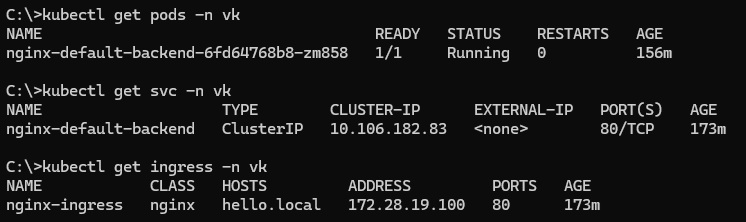
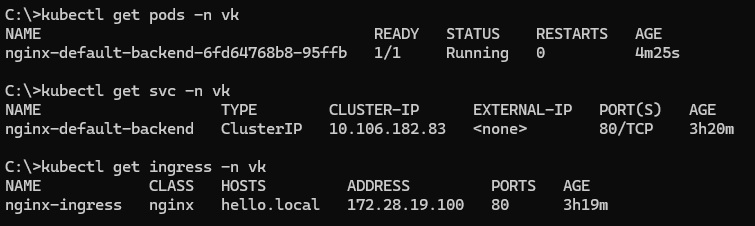
add image and fix readme

diff --git a/README.md b/README.md
@@ -54,9 +54,14 @@ kubectl get ingress -n vk
 ```
 ![Pods, Svc, Ingress](images/pods.jpg)
 
-## Проверка работоспособности Ingress
+## Проверка работоспособности и логи
 `<link>` : <http://ip-address>
 ![Ingress](images/web01.jpg)
 
 `<link>` : <http://hello.local>
 ![Ingress](images/web02.jpg)
+- в логах можно увидеть сообщения с кодом `200` и `304`, говорящие об успешности запроса
+```bash
+kubectl logs nginx-default-backend-6fd64768b8-95ffb -n vk
+```
+![Logs](images/logs.jpg)
